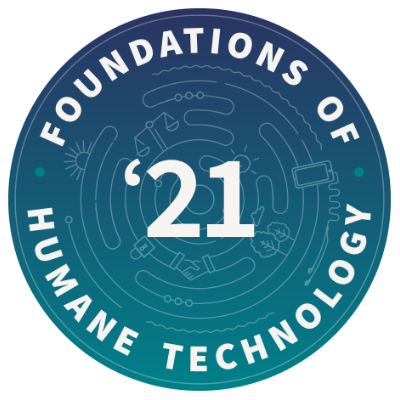
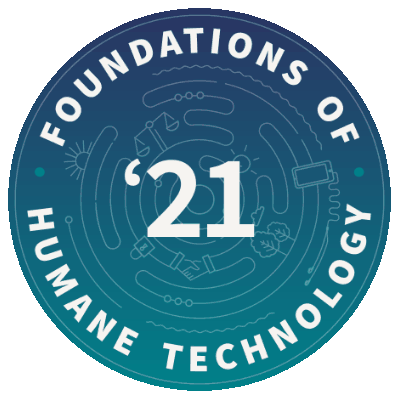
optimize certificate images and update certificates.

diff --git a/index.html b/index.html
@@ -43,14 +43,14 @@
       <div id="certifications">
         <h2>CERTIFICATIONS</h2>
         <ul class="certBadges">
-          <li class="certBadges">
-            <a href="https://theagilecoach.com/certificate/R6sFNuq5Ct">
+          <li id="csis" class="certBadges">
+            <a href="https://www.credly.com/badges/fb2ad361-21e3-4345-a0df-ced6c8ebcbd1/public_url">
               <img
-                src="assets/certificate-badges/agileMasterCert.png"
-                alt="Agile Master Class Certification"
+                src="assets/certificate-badges/CompTIA_CSIS.png"
+                alt="CompTIA Secure Infrastructure Specialist certification."
             /></a>
           </li>
-          <li class="certBadges">
+          <li id="aPlus" class="certBadges">
             <a
               href="https://www.credly.com/badges/09b62e70-c22a-4135-abd3-2e8d888baa6b/public_url"
             >
@@ -60,7 +60,7 @@
             /></a>
           </li>
 
-          <li class="certBadges">
+          <li id="googleIT" class="certBadges">
             <a
               href="https://www.credly.com/badges/570427cc-fa63-4da7-bfbd-56e103d84b65/public_url"
             >
@@ -70,7 +70,7 @@
             /></a>
           </li>
 
-          <li class="certBadges">
+          <li id="projectPlus" class="certBadges">
             <a
               href="https://www.credly.com/badges/59419373-456a-42f9-b684-058802bad062/public_url"
             >
@@ -79,13 +79,13 @@
                 alt="Comptia Project+ Certification"
             /></a>
           </li>
-          <li class="certBadges">
+          <li id="humaneTech" class="certBadges">
             <a
               href="https://www.credential.net/e32638db-92aa-446e-a00a-8b07dd94ae86"
             >
               <img
                 src="assets/certificate-badges/humaneTech2021.png"
-                alt="Comptia A+ Certification"
+                alt="Center For Humane Technology - humane technologist certification"
             /></a>
           </li>
         </ul>
